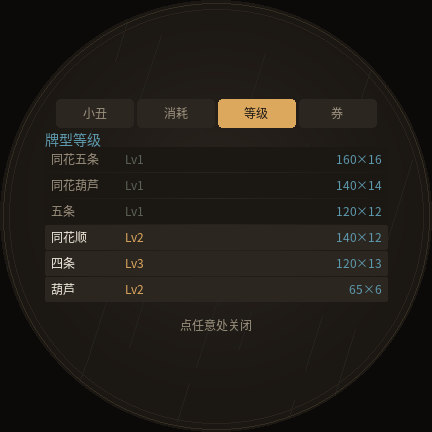
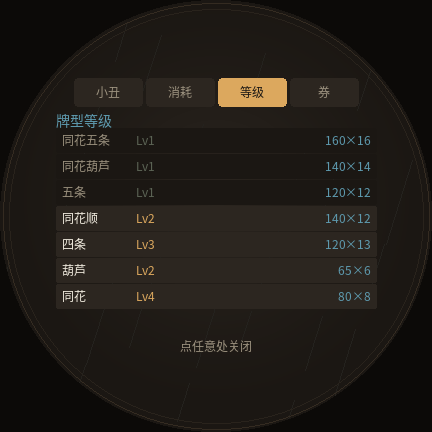
chore(preview): 信息面板分带改为 14/110/8，内容铺满圆内

diff --git a/tools/render_preview.py b/tools/render_preview.py
@@ -824,7 +824,7 @@ def screen_levels(img):
     """信息面板 · 等级页。"""
     d = ImageDraw.Draw(img)
     rows, _ = layout_bands([
-        ("tabs", 14, 2), ("list", 92, 1), ("hint", 8, 0),
+        ("tabs", 14, 3), ("list", 110, 3), ("hint", 8, 0),
     ])
     types = [("同花五条", "Lv1", "160×16"), ("同花葫芦", "Lv1", "140×14"),
              ("五条", "Lv1", "120×12"), ("同花顺", "Lv2", "140×12"),
